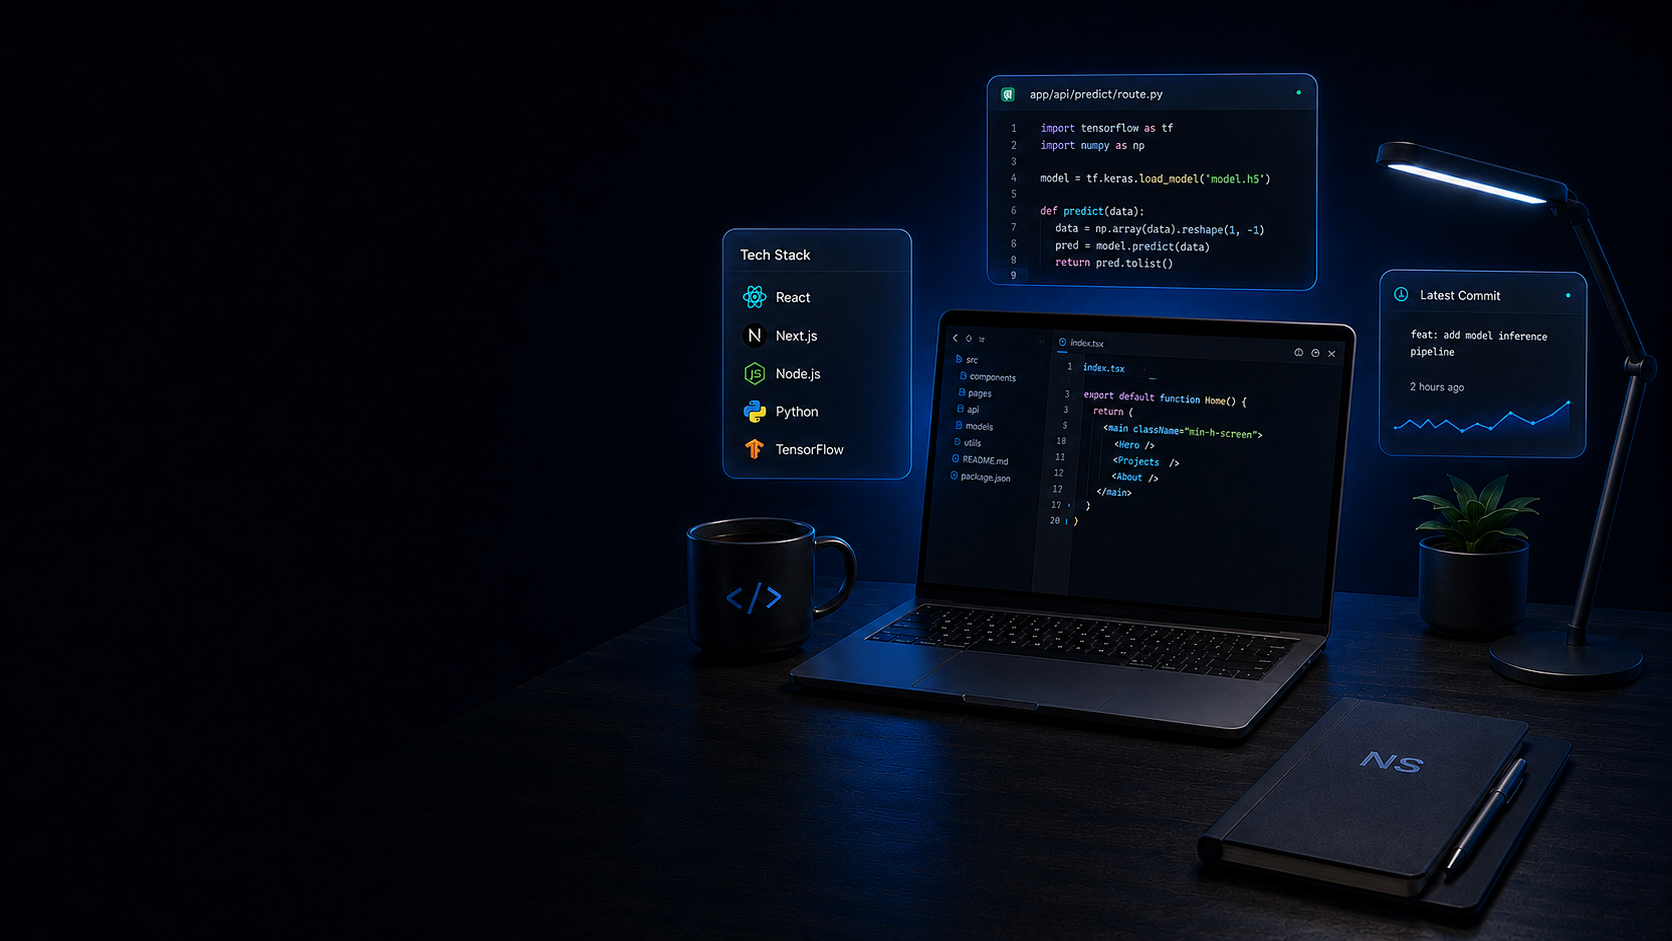
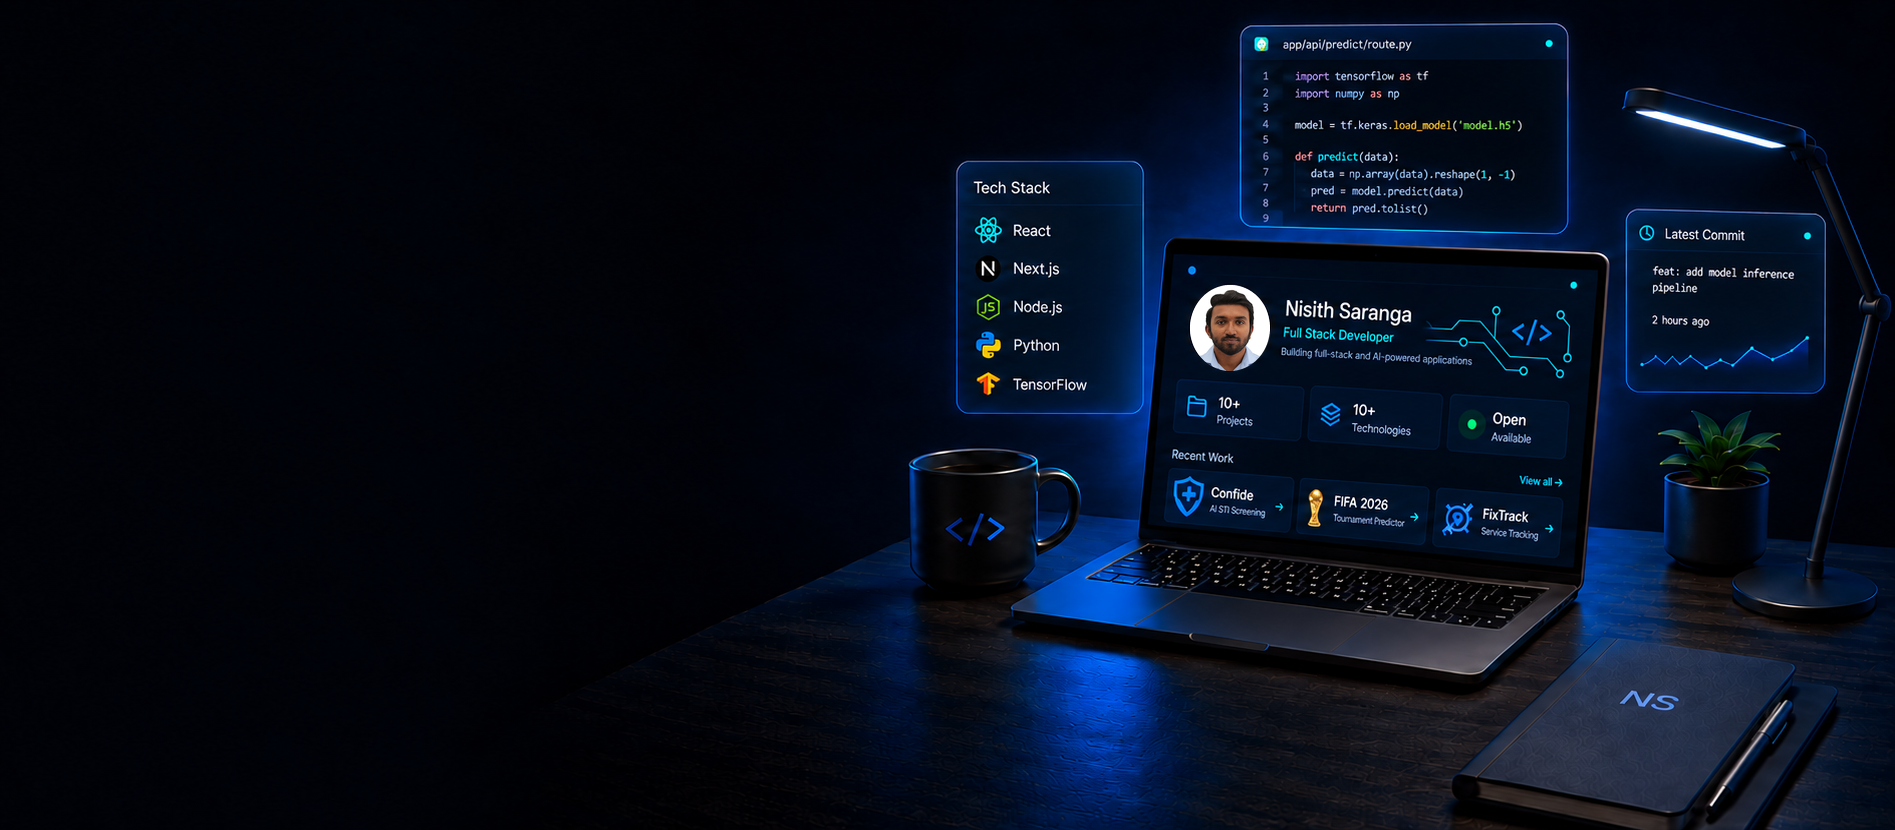
Expand portfolio projects and refine section designs
Add the Bank Term Deposit Subscription Predictor with project screenshots, technical details, SHAP explainability features, and repository link.

Update the personalised light and dark hero workspace images.

Refine the Projects, Skills, Contact, and page layouts while preserving the existing carousel, drawer, theme, and interaction behaviour.

Changed region(s): [[0.4043, 0.0301, 1.0, 1.0]]

diff --git a/components/skills.tsx b/components/skills.tsx
@@ -521,7 +521,7 @@ export function Skills() {
     <section
       id="skills"
       aria-labelledby="skills-heading"
-      className="w-full scroll-mt-24 bg-background px-4 py-6 sm:py-8"
+      className="w-full scroll-mt-24 bg-background px-4 py-6"
     >
       <div className="mx-auto max-w-6xl">
         <div className="text-center">
@@ -545,7 +545,7 @@ export function Skills() {
         </div>
 
         {/* Category tabs */}
-      <div className="mt-9 overflow-x-auto pb-1">
+      <div className="mt-6 overflow-x-auto pb-1">
         <div
             role="tablist"
             aria-label="Skill categories"
@@ -569,7 +569,7 @@ export function Skills() {
                 onClick={() => changeCategory(index)}
                 onKeyDown={(event) => handleTabKey(event, index)}
                 className={[
-                  "rounded-t-lg px-3 py-4 text-sm font-medium transition-colors",
+                  "rounded-t-lg px-3 py-3 text-sm font-medium transition-colors",
                   "focus-visible:outline-2 focus-visible:outline-offset-[-4px] focus-visible:outline-cyan-500",
                   categoryIndex === index
                     ? "text-cyan-700 dark:text-cyan-400"
@@ -603,7 +603,7 @@ export function Skills() {
             hidden={categoryIndex !== index}
           >
             {categoryIndex === index && (
-              <div className="skills-panel-enter mt-6 grid items-stretch gap-5 lg:grid-cols-[1.65fr_1fr]">
+              <div className="skills-panel-enter mt-4 grid items-stretch gap-5 lg:grid-cols-[1.65fr_1fr]">
                 {/* Technology tiles */}
                 <div className="grid auto-rows-fr grid-cols-2 gap-3 sm:grid-cols-3 sm:gap-4">
                   {category.items.map((id) => {
@@ -618,8 +618,8 @@ export function Skills() {
                         aria-pressed={active}
                         aria-controls="skill-description"
                         onClick={() => setSelectedId(id)}
-                        className={[
-                          "flex min-h-[140px] flex-col items-center justify-center gap-4 rounded-2xl border p-4 sm:min-h-[165px]",
+                        className={["flex min-h-[132px] flex-col items-center justify-center gap-3 rounded-2xl border p-4 sm:min-h-[145px]",
+                          
                           "transition duration-200 focus-visible:outline-2 focus-visible:outline-offset-4 focus-visible:outline-cyan-500",
                           "motion-safe:hover:-translate-y-1",
                           active
@@ -629,7 +629,7 @@ export function Skills() {
                       >
                         <Icon
                           aria-hidden="true"
-                          className={`text-4xl sm:text-5xl ${skill.color}`}
+                          className={`text-4xl ${skill.color}`}
                         />
                         <span className="text-center text-sm font-semibold text-foreground sm:text-base">
                           {skill.name}
@@ -644,7 +644,7 @@ export function Skills() {
                   id="skill-description"
                   aria-live="polite"
                   aria-atomic="true"
-                  className="min-w-0 rounded-2xl border border-[var(--border)] bg-[var(--surface)] p-6 sm:p-7"
+                  className="min-w-0 rounded-2xl border border-[var(--border)] bg-[var(--surface)] p-5 sm:p-6"
                 >
                   <div key={selectedId} className="skills-detail-enter">
                     <div className="flex items-center gap-4">
@@ -665,13 +665,13 @@ export function Skills() {
                       </div>
                     </div>
 
-                    <div className="my-6 h-px bg-[var(--border)]" />
+                    <div className="my-5 h-px bg-[var(--border)]" />
 
                     <p className="text-base leading-7 text-[var(--muted-text)]">
                       {selected.description}
                     </p>
 
-                    <div className="my-6 h-px bg-[var(--border)]" />
+                    <div className="my-5 h-px bg-[var(--border)]" />
 
                     <ul
                       aria-label="Key features"
@@ -694,9 +694,9 @@ export function Skills() {
         ))}
 
         {/* Moving technology strip */}
-        <div className="mt-7 flex items-center overflow-hidden rounded-2xl border border-[var(--border)] bg-[var(--surface)]">
+        <div className="mt-5 flex items-center overflow-hidden rounded-2xl border border-[var(--border)] bg-[var(--surface)]">
           <div
-            className="skills-marquee-window min-w-0 flex-1 overflow-hidden py-5"
+            className="skills-marquee-window min-w-0 flex-1 overflow-hidden py-3"
             aria-label="Featured technologies"
           >
             <div

diff --git a/components/projects.tsx b/components/projects.tsx
@@ -20,7 +20,7 @@ const projects: Project[] = [
     id: "fifa",
     summary:
      "Full-stack prediction platform built with the MERN stack in typeScript",
-    title: "FIFA 2026 World Cup — Bracket Challenge",
+    title: "FIFA 2026 World Cup - Bracket Challenge",
     cardTitle: "FIFA 2026 Bracket Challenge",
     images: [
       "/fifa1.jpg",
@@ -51,7 +51,7 @@ const projects: Project[] = [
   {
     id: "confide",
     summary:"Privacy-preserving deep learning system for STI Visual Screening of Men",
-    title: "Confide — Private STI Screening for Men",
+    title: "Confide - Private STI Screening for Men",
     cardTitle: "Confide",
     images: [
       "/confide1.png",
@@ -110,7 +110,7 @@ const projects: Project[] = [
   {
     id: "oceanview",
     summary:"Resort reservation management system for internal use ",
-    title: "OceanView Resort — Reservation Management System",
+    title: "OceanView Resort - Reservation Management System",
     cardTitle: "OceanView Resort",
     images: [
       "/oceanview1.png",
@@ -138,7 +138,7 @@ const projects: Project[] = [
   {
     id: "spc",
     summary:"Service-oriented web application for managing pharmacy operations and business workflows.",
-    title: "SPC Pharmacy Network — Pharmacy Management System",
+    title: "SPC Pharmacy Network - Pharmacy Management System",
     cardTitle: "SPC Pharmacy Network",
     images: [
       "/soc1.png",
@@ -161,7 +161,38 @@ const projects: Project[] = [
       "EF Core",
       "SQL Server",
     ],
-    github: "https://github.com/nisithSaranga/PharmacyApp",
+        github: "https://github.com/nisithSaranga/PharmacyApp",
+  },
+  {
+    id: "bank-term-deposit",
+    summary:
+      "Machine learning application predicting term deposit subscriptions with individual SHAP explanations.",
+    title: "Bank Term Deposit Subscription Predictor",
+    cardTitle: "Bank Term Deposit Predictor",
+    images: [
+      "/bank1.png",
+      "/bank2.png",
+    ],
+    overview:
+      "An interactive prediction application that estimates whether a bank customer will subscribe to a term deposit. Developed for a Computational Intelligence module, the project compares classification models and uses a tuned XGBoost pipeline with SHAP explanations to show the factors influencing each prediction. The deployed model includes call duration, so its predictions require information available after a call.",
+    features: [
+      "Enter customer details and campaign information to estimate subscription probability.",
+      "Display a subscription prediction alongside its probability.",
+      "Explain individual predictions with SHAP contributions and a readable summary.",
+      "Compare classification models, with tuned XGBoost achieving a holdout ROC-AUC of 0.9676.",
+      "Evaluate how removing call duration affects performance and document its limitation for pre-call scoring.",
+    ],
+    stack: [
+      "Python",
+      "Pandas",
+      "Scikit-learn",
+      "XGBoost",
+      "SHAP",
+      "Streamlit",
+      "Joblib",
+    ],
+    github:
+      "https://github.com/nisithSaranga/bank-term-deposit-predictor",
   },
 ];
 

diff --git a/components/contact.tsx b/components/contact.tsx
@@ -35,9 +35,34 @@ export function Contact() {
     <section
       id="contact"
       aria-labelledby="contact-heading"
-      className="w-full scroll-mt-24 bg-background py-6 sm:py-8"
+      className="relative isolate flex w-full flex-1 scroll-mt-24 items-center overflow-hidden bg-background py-6 sm:py-8"
     >
-      <div className="mx-auto grid w-full max-w-6xl items-center gap-10 px-4 lg:grid-cols-[minmax(0,1fr)_minmax(380px,500px)] lg:gap-14">
+          {/* Decorative background */}
+    <div
+      aria-hidden="true"
+      className="pointer-events-none absolute inset-0 z-0"
+    >
+      {/* Faint dot grid */}
+      <div
+        className="absolute inset-0 opacity-[0.09] dark:opacity-[0.12]"
+        style={{
+          backgroundImage:
+            "radial-gradient(circle, rgba(34, 211, 238, 0.7) 1px, transparent 1px)",
+          backgroundSize: "28px 28px",
+          maskImage:
+            "linear-gradient(to bottom, transparent, black 18%, black 82%, transparent)",
+          WebkitMaskImage:
+            "linear-gradient(to bottom, transparent, black 18%, black 82%, transparent)",
+        }}
+      />
+
+  {/* Cyan glow behind heading */}
+  <div className="absolute left-[4%] top-1/2 h-[360px] w-[460px] -translate-y-1/2 rounded-full bg-cyan-400/15 blur-[120px] dark:bg-cyan-400/8" />
+
+  {/* Blue glow behind contact controls */}
+  <div className="absolute right-[3%] top-1/2 h-[380px] w-[500px] -translate-y-1/2 rounded-full bg-blue-500/15 blur-[130px] dark:bg-blue-500/10" />
+</div>
+      <div className="relative z-10 mx-auto grid w-full max-w-6xl items-center gap-10 px-4 lg:grid-cols-[minmax(0,1fr)_minmax(380px,500px)] lg:gap-14">
         {/* Invitation */}
         <div>
           <p className="text-xs font-semibold uppercase tracking-[0.25em] text-cyan-700 dark:text-cyan-400">

diff --git a/app/page.tsx b/app/page.tsx
@@ -42,9 +42,11 @@ export default function Home() {
         <About />
         <Skills/>
         <Projects/>
-        <Education/>
-        <Contact/>
-        <Footer/>
+        <Education />
+      <div className="flex min-h-[calc(100svh-4rem)] flex-col border-t border-[var(--border)]">
+        <Contact />
+        <Footer />
+      </div>
       </main>
     </>
   );
